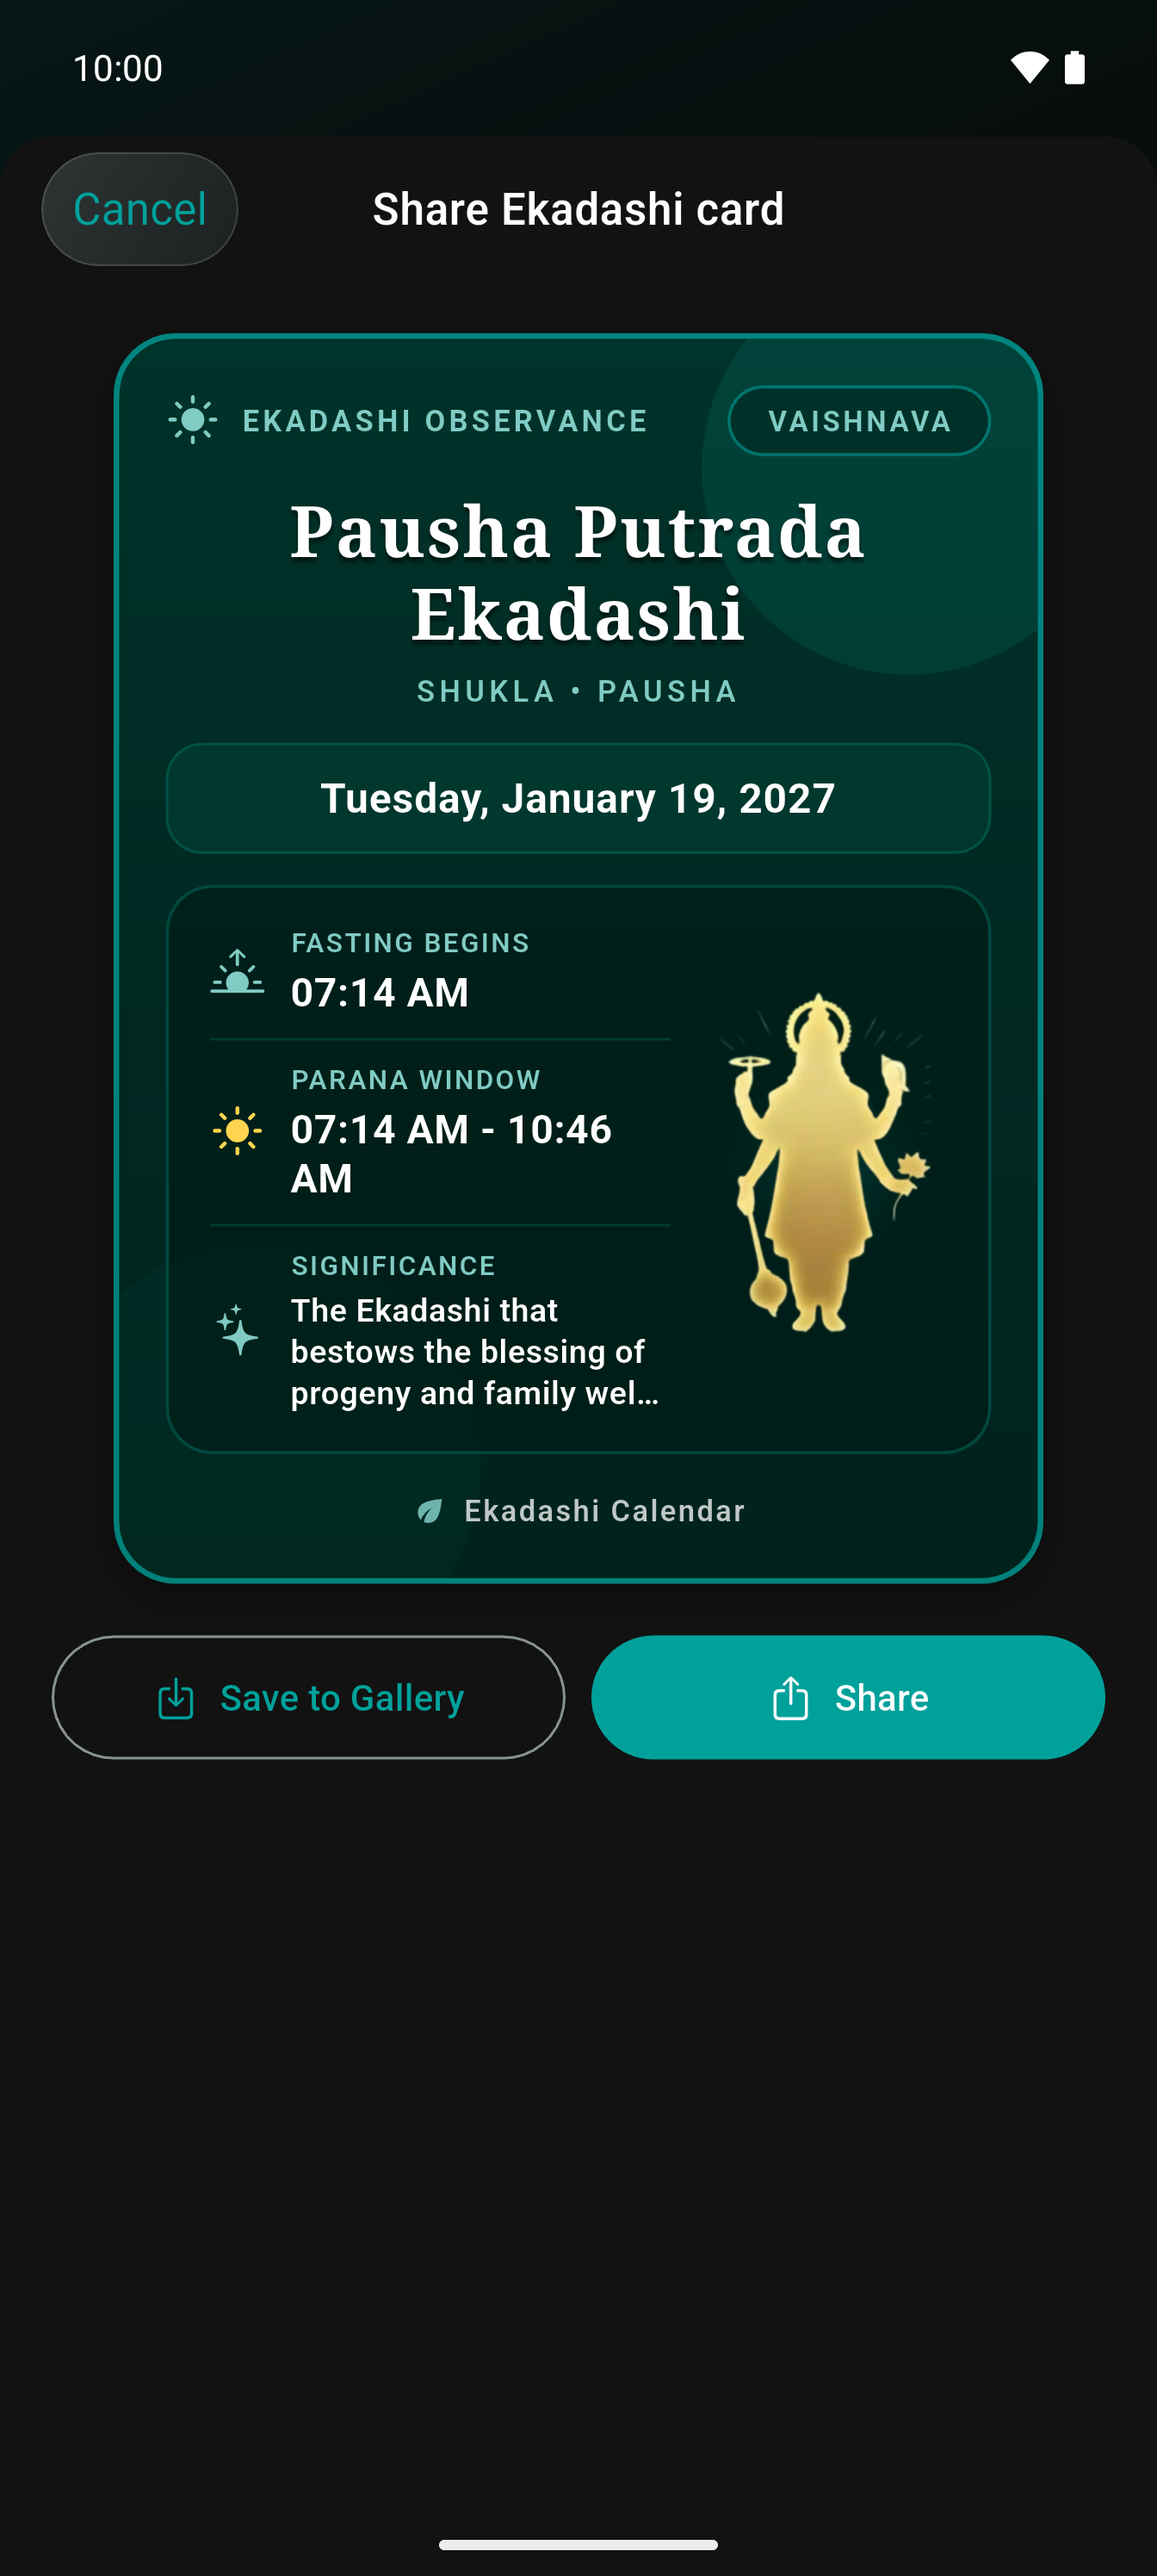
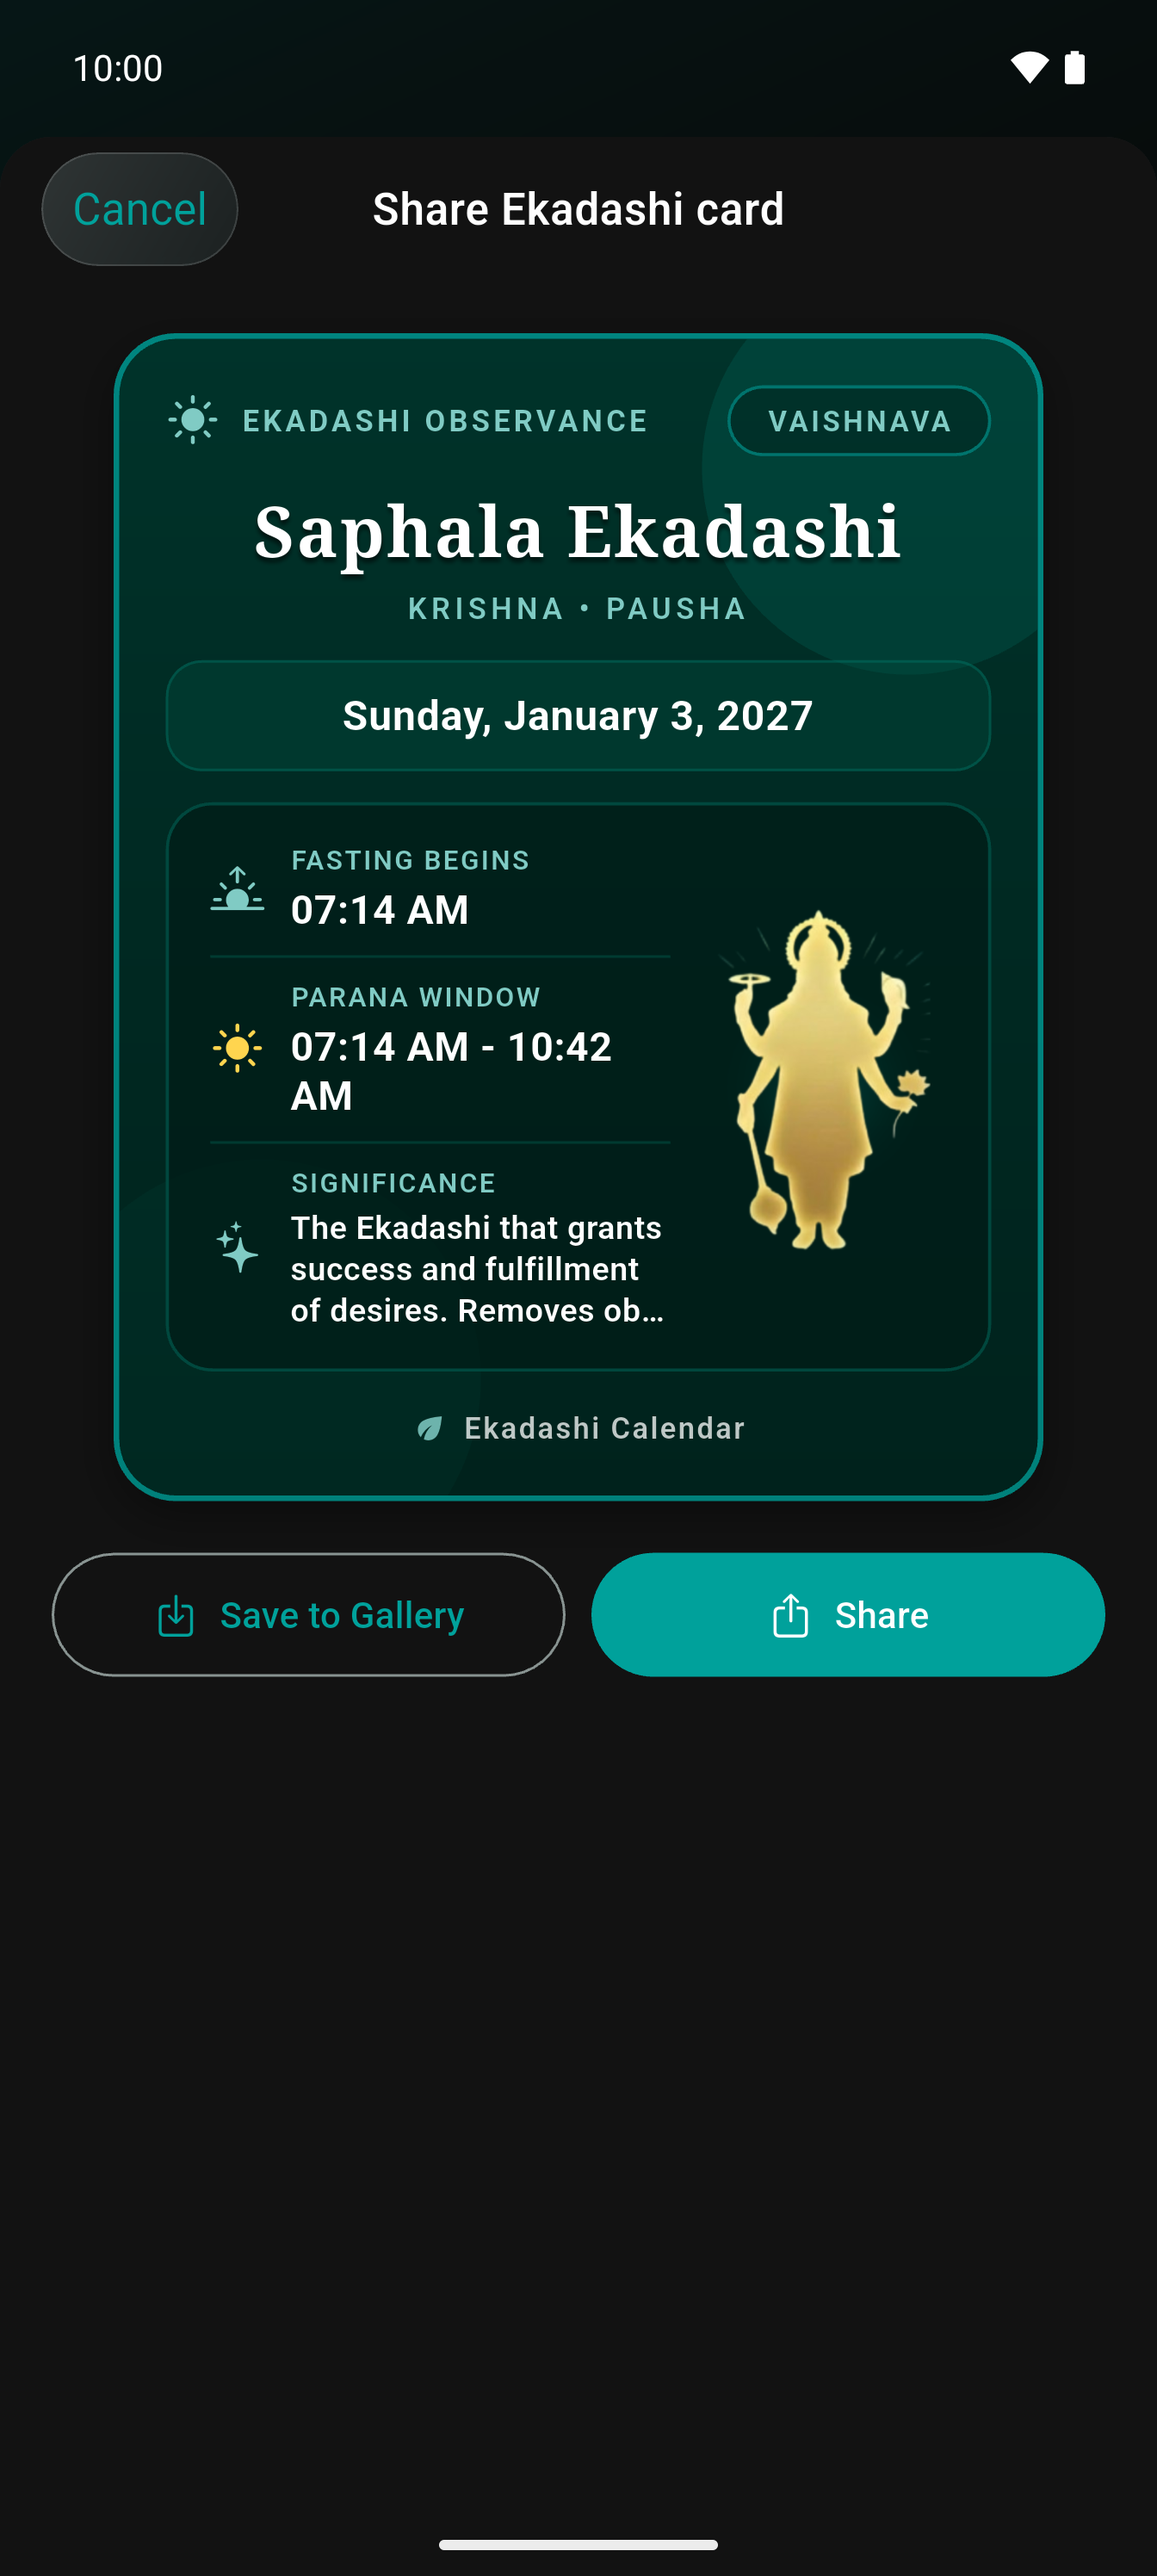
Android store assets: share card, widget previews, spec and progress [skip ci]

Changed region(s): [[0.0938, 0.1865, 0.9688, 0.6838], [0.1875, 0.3419, 0.2188, 0.5284], [0.0312, 0.6217, 0.0625, 0.6527]]

diff --git a/store-assets/android/tools/store_shots_android_test.dart b/store-assets/android/tools/store_shots_android_test.dart
@@ -222,6 +222,45 @@ void main() {
       await shot('panchang-muhurta', settle: 2);
       await tap('panchang_tab_rashi', after: 3);
       await shot('panchang-rashi', settle: 2);
+    } else if (session == 'share') {
+      final f = find.byKey(const Key('home_share_card'));
+      final size = tester.view.physicalSize / tester.view.devicePixelRatio;
+      debugPrint('DBG screen $size count ${f.evaluate().length}');
+      for (var k = 0; k < f.evaluate().length; k++) {
+        debugPrint('DBG $k ${tester.getCenter(f.at(k))} hit=${f.at(k).hitTestable().evaluate().length}');
+      }
+      final onScreen = [
+        for (var k = 0; k < f.evaluate().length; k++)
+          if (tester.getCenter(f.at(k)).dx > 0 && tester.getCenter(f.at(k)).dx < size.width) k,
+      ];
+      debugPrint('DBG onScreen $onScreen');
+      await tester.tapAt(tester.getCenter(f.at(onScreen.first)));
+      await hold(3);
+      await shot('share-card');
+      await back();
+    } else if (session == 'widgets') {
+      Future<void> tapText(String t) async {
+        final f = find.text(t);
+        if (!await ready(f, seconds: 8)) { debugPrint('MISSING:text $t'); return; }
+        await tester.ensureVisible(f.last);
+        await hold(0.3);
+        await tester.tap(f.last, warnIfMissed: false);
+        await hold(1.8);
+      }
+      await tap('glass_tab_4', after: 2);
+      await tapText('Widget Preview');
+      await hold(2);
+      await tapText('Medium');
+      await shot('w-ekadashi-medium');
+      await tapText('Small');
+      await shot('w-ekadashi-small');
+      await tapText('Large');
+      await shot('w-ekadashi-large');
+      await tapText('Upcoming Ekadashis');
+      await tapText('Medium');
+      await shot('w-upcoming-medium');
+      await tapText('Large');
+      await shot('w-upcoming-large');
     } else if (session == 'oct') {
       await tap('glass_tab_1', after: 3);
       await shot('calendar-diwali', settle: 2);

diff --git a/store-assets/android/README.md b/store-assets/android/README.md
@@ -11,10 +11,10 @@ owned, no prices, Wi-Fi-only status bar (SystemUI demo mode).
       (2026, 1,650 points), journey-share, journey-statistics, panchang-daily,
       panchang-muhurta, panchang-rashi (clock 1 Jan 2027 10:00 IST);
       calendar-diwali, panchang-festivals-oct (clock 29 Oct 2027 10:00 IST)
-- [ ] Re-capture `share-card` (current raw shows 19 Jan; the script fix to tap the
-      on-screen button is in `tools/store_shots_android_test.dart`, re-run `jan`)
-- [ ] Android home-screen widgets capture (slide 10)
-- [ ] Compose all 10 slides like iOS (`../ios/tools/compose2.py`, FW=1320 FH=2347,
+- [x] `share-card` re-captured (Saphala, 3 Jan) via session `share`
+- [x] Widgets from Settings > Widget Preview, like iOS (session `widgets`): raw/widgets/
+      (upcoming-large missing: Upcoming has no Large size; check). NEXT: compose slide 10 as a mock Android home screen with these.
+- [ ] NEXT AFTER WIDGETS: compose all 10 slides (spec: tools/spec-main.json; crops for 01/07 tuned) like iOS (`../ios/tools/compose2.py`, FW=1320 FH=2347,
       then scale to 1080 × 1920); Arun picks 8 for Play (limit 8)
 - [ ] Video: same flows recorded, ~1× speed, music = `../ios/preview/music-original-bhupali.m4a`
       (Arun chose it on 24 Nov 2026; re-render with ../ios/tools/synth.py if longer than 32 s)
